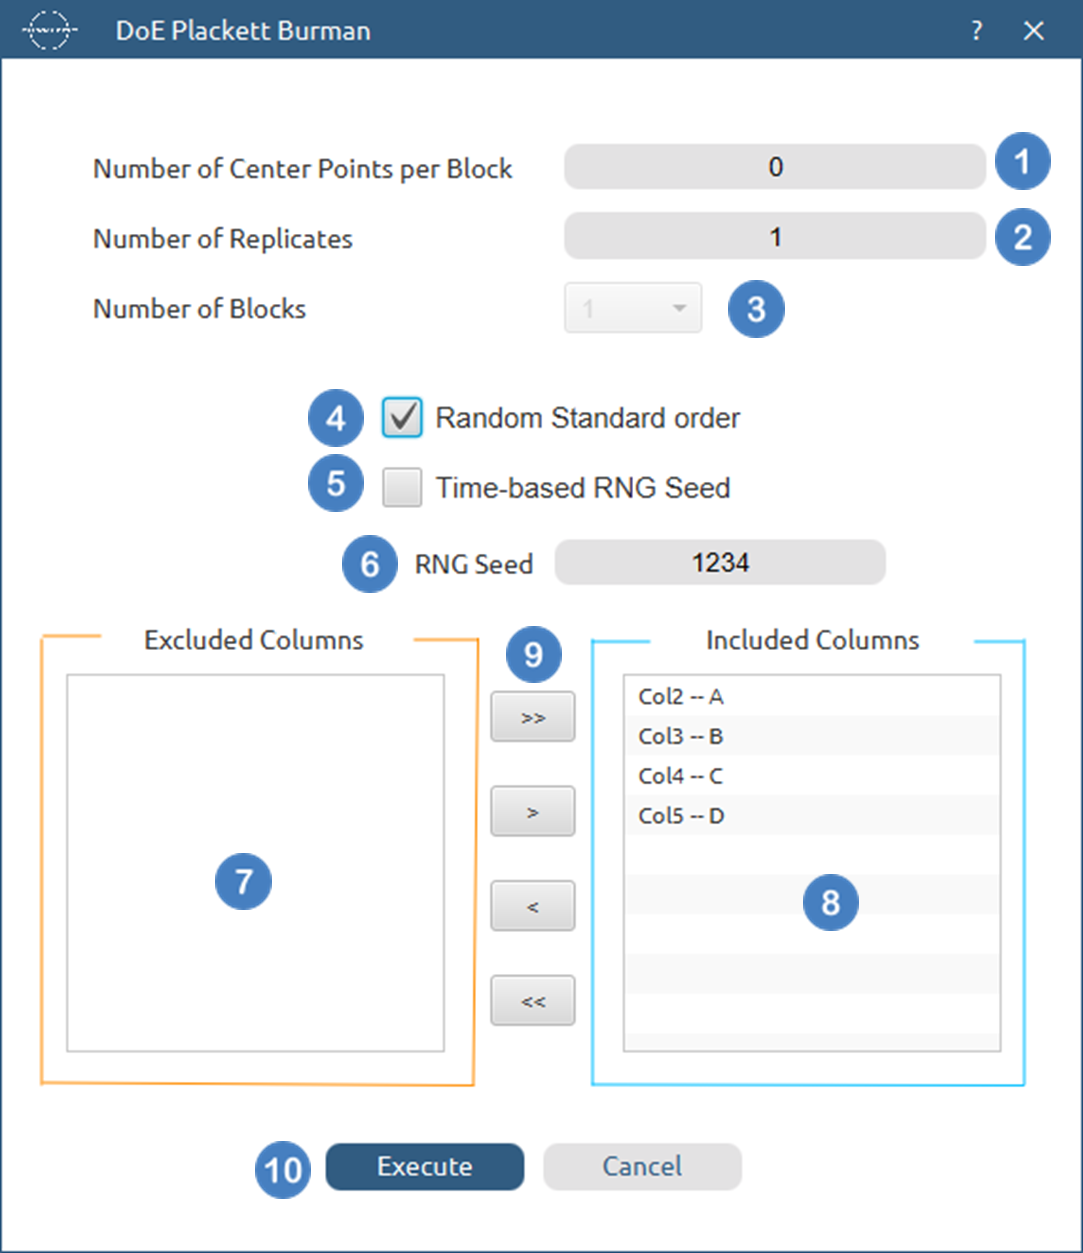
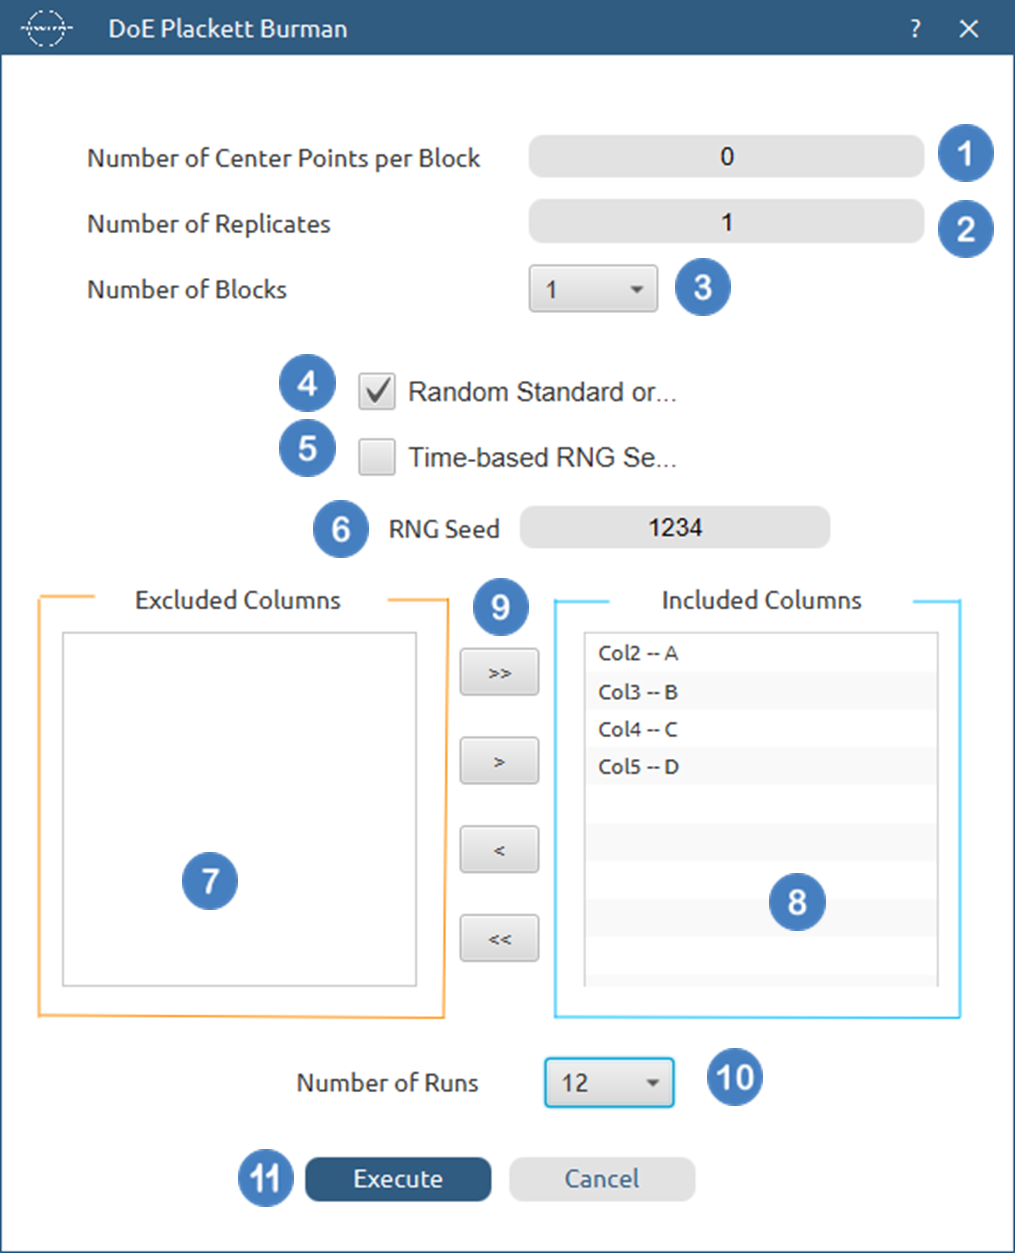
Screening Designs Updated

diff --git a/docs/DoE/61Screening.md b/docs/DoE/61Screening.md
@@ -34,18 +34,19 @@ Use the `Plackett Burman` designs by browsing in the top ribbon:
 
 ### Input
 {: .no_toc}
-Numerical values should be specified in the input datasheet. Plackett-Burman design is applied when at least four  factors (columns) are specified along with exactly two levels/values (rows).
+Numerical values should be specified in the input datasheet. Plackett-Burman design is applied when at least three factors (columns) are specified along with exactly two levels/values (rows).
 
 ### Configuration
 {: .no_toc}
 
-|**Number of Center Points**|Select manually the `Number of Center Points` to be included in the output list of experiments. There is no minimum requirement or any other limitation.|
+|**Number of Center Points per Block**|Select manually the `Number of Center Points` to be included in the output list of experiments. There is no minimum requirement or any other limitation.|
 |**Number of Replicates**|Select manually the `Number of Replicates` which represents the number of times to replicate the entire design. This value should be an integer, and the lowest acceptable value is 1.|
-|**Number of Blocks**|Select from the list of available options the `Number of Blocks`. Currently, the only supported option is 1.|
+|**Number of Blocks**|Select from the list of available options the `Number of Blocks`. Plackett Burman designs can only be blocked on replicates, meaning each replicate defines a block, otherwise all points are put into a single block.|
 |**Random Standard order**|You can tick/select the box if randomness is required in the output list of experiments.|
 |**Time-based RNG Seed**|If the randomness is selected, then you have the option to also tick/select the box to set the random generated number seed based on time.|
 |**RNG Seed**|Select manually the random generated number seed if required.|
 |**Include/exclude columns**|Select manually the columns through the dialog window: Use the buttons to move columns between the `Included Columns` and `Excluded Columns` list. Single-arrow buttons will move all selected columns and double-arrow buttons will move all columns.|
+|**Number of Runs**| Select from the available options the number of runs to produce. The available options include multiples of 4 starting from 8 until 48 that are larger than the number of selected factors.|
 
 ### Output
 {: .no_toc}
@@ -71,7 +72,8 @@ In the input datasheet minimum requirement is to specify three factors (columns)
 1. Select/tick if required the `Random Standard order` [4] to imply randomness in the output list of experiments.
 1. If randomness is selected either select/tick to generate the number seed for randomness based on time [5] or by manually setting a value [6].
 1. Select the columns by clicking on the arrow buttons [9] and moving columns between the `Excluded Columns` [7] and `Included Columns` [8] lists.
-1. Click on the `Execute` button [10] to perform Plackett-Burman design method.
+1. Select the `Number Of Runs`[10] to produce.
+1. Click on the `Execute` button [11] to perform Plackett-Burman design method.
 
 <div style="text-align: center;">
 <img src="images/Design of experiments/Plackett-Burman-config.png" alt="Plackett-Burman Configuration" width="400" height="400" class="img-responsive">
@@ -101,7 +103,7 @@ Isalos uses a term called “Fraction Relationship” to determine the confoundi
 
 Resolution measures the extent to which effects—such as main effects and interactions between factors—can be uniquely estimated without confounding. It is determined by the shortest word in the defining relation of the design, which represents the smallest group of factors whose effects are confounded. The minimum acceptable resolution for a design is Resolution III, as resolutions below this result in main effects being confounded with one another, which is undesirable for meaningful analysis.
 
-To assist users in determining the required "Fraction Relationship," the software provides a comprehensive list of available designs that deliver maximum resolution for each case. These designs serve as a reliable reference, derived from authoritative sources <sup>[3, 4, 5](#references-design-of-experiments)</sup>.
+To assist users in determining the required "Fraction Relationship," the software provides a comprehensive list of available designs that deliver maximum resolution for each case. These designs serve as a reliable reference, derived from authoritative sources <sup>[3, 4, 5](#references-design-of-experiments)</sup> and can be used by selecting one of the options from the Available Designs. However, users can also specify a different fraction relationship by selecting the Custom Option.
 
 | Number of Factors | Fraction | Number of Runs | Design Generators | Fraction Relationship | Resolution |
 |------------------|----------|--------------|------------------|---------------------|------------|
@@ -156,6 +158,9 @@ To assist users in determining the required "Fraction Relationship," the softwar
 |    |"1/1024" | 32 | f=abc, g=abd, h=abe, i=acd, j=ace, k=ade, l=bcd, m=bce, n=bde, o=cde | a b c d e abc abd abe acd ace ade bcd bce bde cde | IV | 
 |    |"1/2048" | 16 | e=abc, f=abd, g=acd, h=bcd, i=abcd, j=ab, k=ac, l=ad, m=bc, n=bd, o=cd | a b c d abc abd acd bcd abcd ab ac ad bc bd cd | III | 
 
+
+Moreover, Isalos offers the option to orthogonally block fractional factorial designs based on block generators found in literature.<sup>[3](#references-design-of-experiments)</sup>
+
 Use the `Fractional Factorial` function by browsing in the top ribbon: 
 
 | DOE $$\rightarrow$$ Screening $$\rightarrow$$ Fractional Factorial|
@@ -167,13 +172,14 @@ Numerical values should be specified in the input datasheet. Fractional factoria
 ### Configuration
 {: .no_toc }
 
-|**Number of Center Points** | Select manually the Number of `Center Points` to be included in the output list of experiments. There is no minimum requirement or any other limitation. |
+|**Available Designs**| Select one of the available design options for the number of factors you have selected. Choices include the fraction of the produced design, while the fraction relationship being used maximizes the resolution of the design. There is also the option to specify a custom design. |
+|**Fraction Relationship** | If the Custom option is selected from the Available Designs, insert manually the Fraction Relationship to define the desired Fractional Factorial design. The kth independent factor(column) corresponds to the kth letter of the alphabet (The letter I is not a special character and should be used for the 9th if that exists). Only alphabetical characters, spaces, '+' and '-' are allowed. |
+|**Number of Center Points per Block** | Select manually the Number of `Center Points` to be included in the output list of experiments. There is no minimum requirement or any other limitation. |
 |**Number of Replicates**|Select manually the `Number of Replicates` which represents the number of times to replicate the entire design. This value should be an integer, and the lowest acceptable value is 1.|
-|**Number of Blocks**|Select from the list of available options the `Number of Blocks`. Currently, the only supported option is 1.|
+|**Number of Blocks**| Select from the list of available options the Number of Blocks. Available options depend on the selected number of factors, the selected design and the number of replicates. |
 |**Random Standard order** | You can tick/select the box if randomness is required in the output list of experiments. |
 |**Time-based RNG Seed** | If in the randomness is selected, then you have the option to also tick/select the box to set the random generated number seed based on time |
 |**RNG Seed** | Select manually the random generated number seed if required. |
-|**Fraction Relationship** | Insert manually the `Fraction Relationship` to define the desired Fractional Factorial design. The $k^{th}$ independent factor (column) corresponds to the $k^{th}$ letter of the alphabet (The letter "I" is not a special character and should be used for the $9^{th}$ if that exists). Only alphabetical characters, spaces, "+" and "-" are allowed.|
 |**Include/exclude columns** | Select manually the columns through the dialog window: Use the buttons to move columns between the `Included Columns` and `Excluded Columns` list. Single-arrow buttons will move all selected columns and double-arrow buttons will move all columns. |
 
 ### Output
@@ -195,14 +201,15 @@ In the input datasheet minimum requirement is to specify three factors (columns)
 {: .no_toc }
 
 1.   Select `DOE` $$\rightarrow$$ `Screening` $$\rightarrow$$ `Fractional Factorial`.
-1.   Select the `Number of Center Points` [1] to be generated in the output list of experiments.
-1.   Select the `Number of Replicates` [2]. The lowest value that can be set is 1.
-1.   Select the `Number of Blocks` [3]. 
-1.   Select/tick if required the `Random Standard order` [4] to imply randomness in the output list of experiments.
-1.   If randomness is selected either select/tick to generate the number seed for randomness based on time [5] or by manually setting a value [6].
-1.   Insert the `Fraction Relationship` [7].
-1.   Select the columns by clicking on the arrow buttons [10] and moving columns between the `Excluded Columns` [8] and `Included Columns` [9] lists.
-1.   Click on the `Execute` button [11] to perform Fractional Factorial design method.
+1.   Select the columns by clicking on the arrow buttons [3] and moving columns between the `Excluded Columns` [1] and `Included Columns` [2] lists.
+1.	 Select one `of the Available Designs` [4].
+1.   If the Custom option is selected, insert the `Fraction Relationship` [5].
+1.   Select the `Number of Center Points per Block` [6] to be generated in the output list of experiments.
+1.   Select the `Number of Replicates` [7]. The lowest value that can be set is 1.
+1.   Select the `Number of Blocks` [8]. 
+1.   Select/tick if required the `Random Standard order` [9] to imply randomness in the output list of experiments.
+1.   If randomness is selected either select/tick to generate the number seed for randomness based on time [10] or by manually setting a value [11].
+1.   Click on the `Execute` button [12] to perform Fractional Factorial design method.
 
 <div style="text-align: center;">
 <img src="images/Design of experiments/fractional-config.png" alt="Franctional Factorial" width="400" height="300" class="img-responsive">
